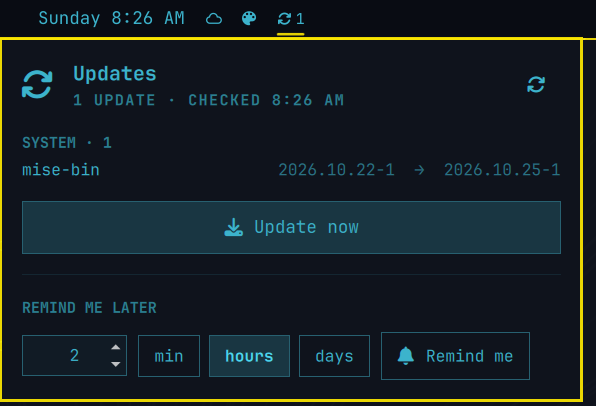
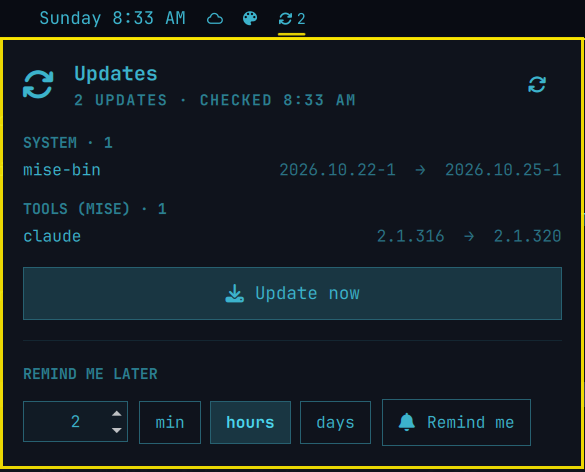
Preview: show the Tools (mise) section

diff --git a/README.md b/README.md
@@ -6,6 +6,8 @@ see exactly what will change, start the update, or snooze it for however long yo
 
 ![Updates popup](preview.png)
 
+*Example data: the `claude` tool update was made up to show the Tools section.*
+
 - **Bar icon:** a refresh icon with the pending count. It's hidden when you're up to date
   and dimmed while a reminder is snoozed. Left click opens the popup; right click shows or
   hides the count.
